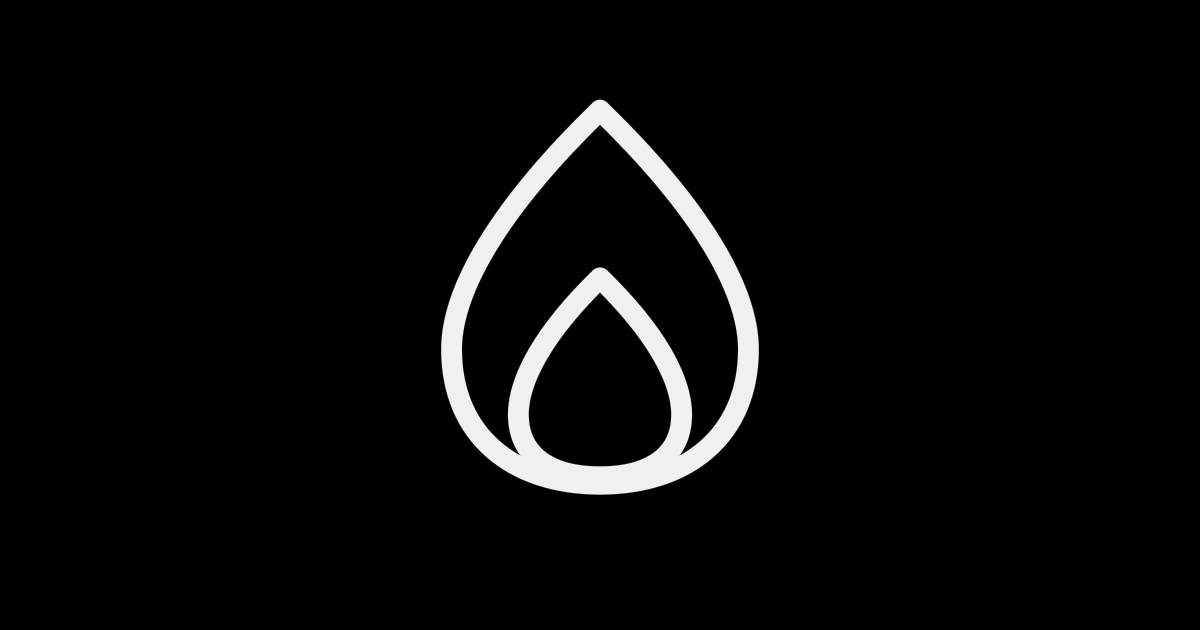
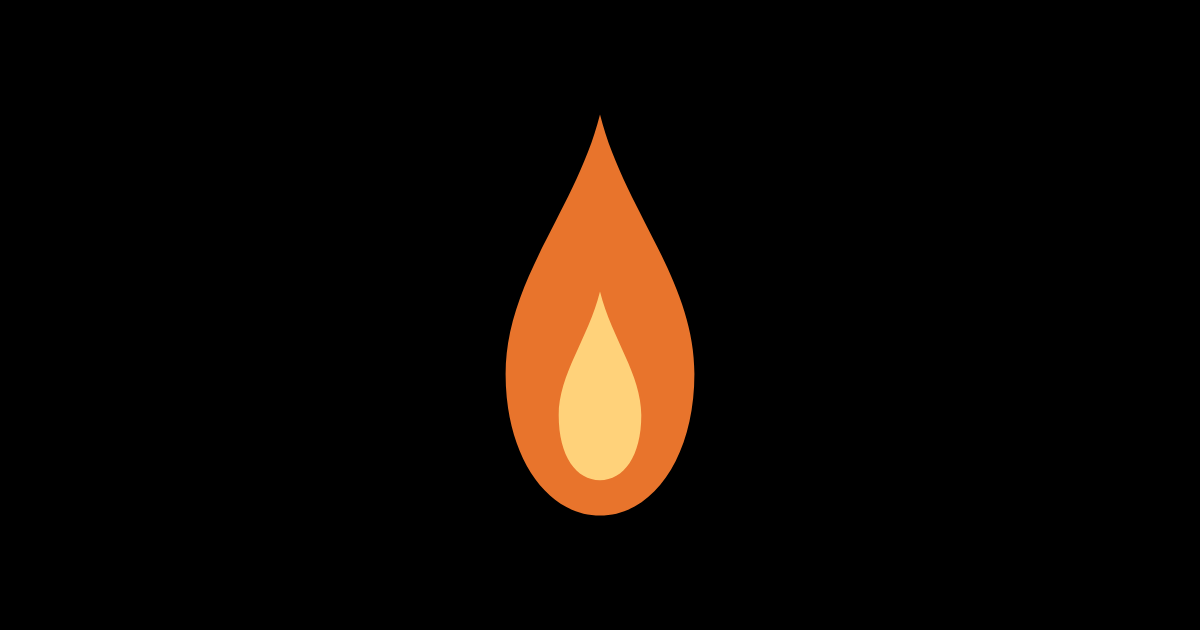
Lamp: social preview uses the new flame

Changed region(s): [[0.37, 0.1508, 0.6475, 0.8143]]

diff --git a/lamp/index.html b/lamp/index.html
@@ -21,7 +21,7 @@
   <meta property="og:image" content="https://deadquiet42.github.io/lamp/og.png" />
   <meta property="og:image:width" content="1200" />
   <meta property="og:image:height" content="630" />
-  <meta property="og:image:alt" content="The white nested-flame symbol of Perpetual Lamp on a dark background." />
+  <meta property="og:image:alt" content="The amber flame of Perpetual Lamp on a black background." />
 
   <link rel="stylesheet" href="styles.css" />
 
